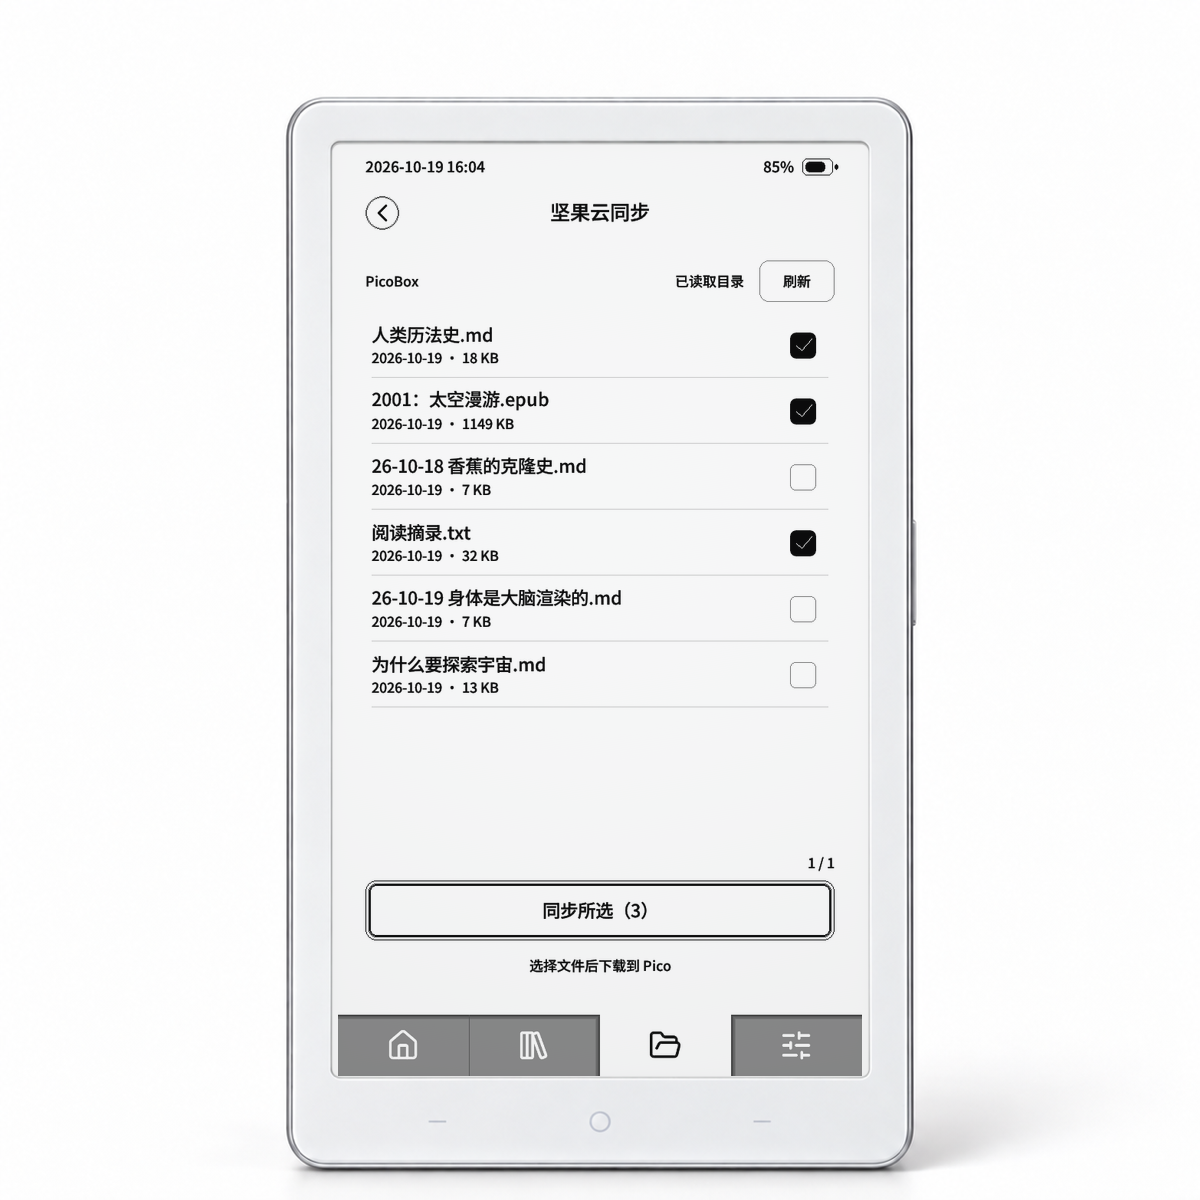
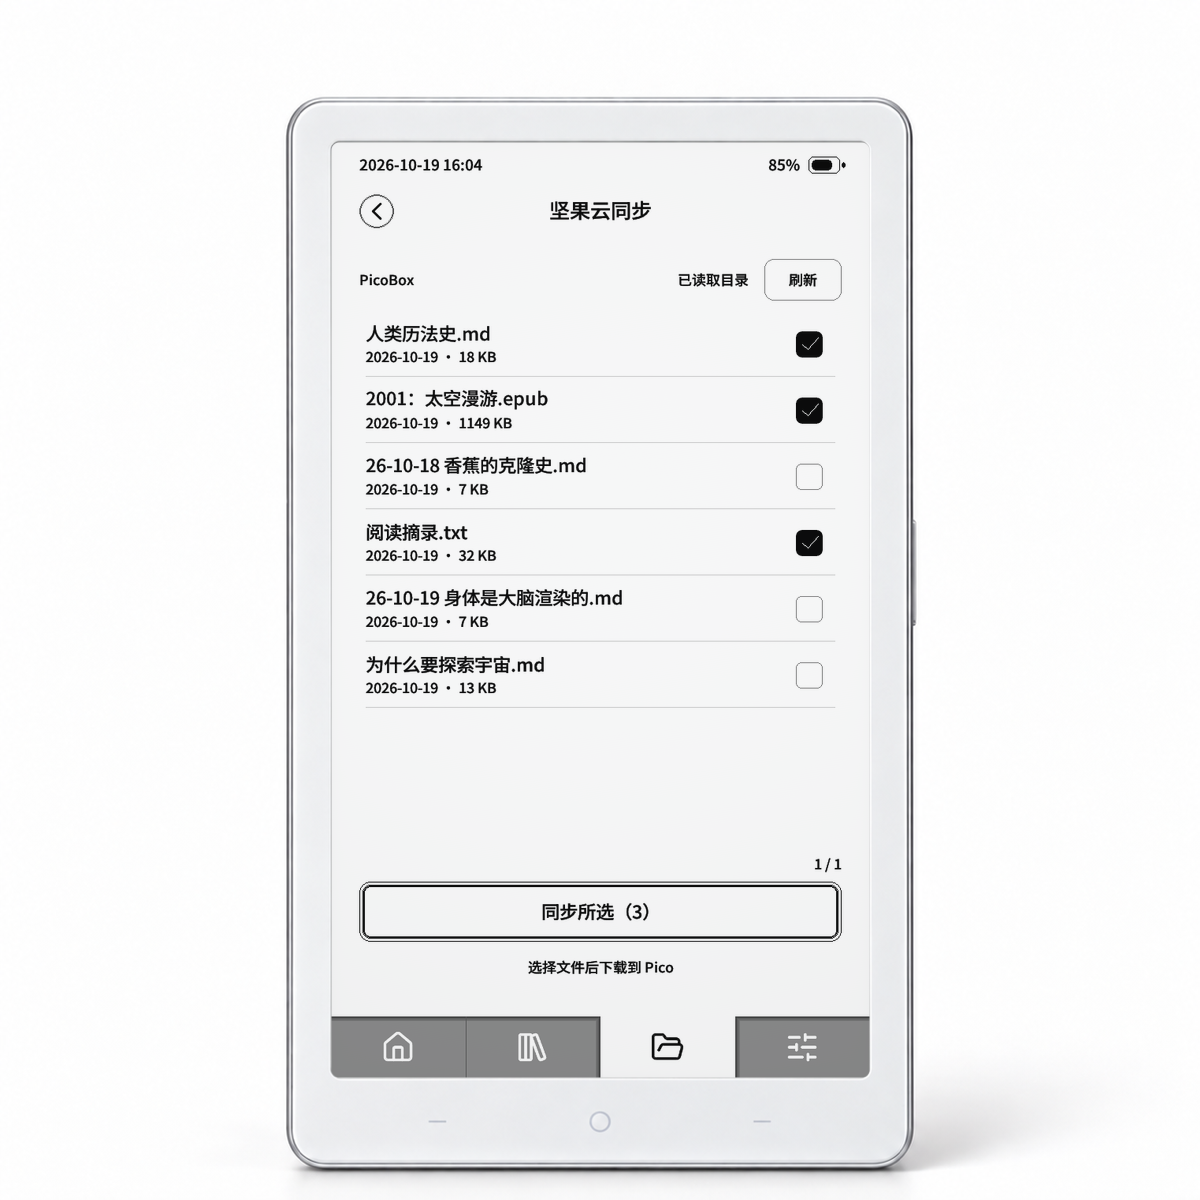
Fill device display edges and unify showcase typography

diff --git a/docs/index.html b/docs/index.html
@@ -43,23 +43,23 @@
     <div class="carousel" role="region" aria-roledescription="轮播图" aria-label="Pico 功能展示">
       <div class="carousel-stage" id="showcase-stage">
         <article class="showcase-slide" id="slide-home" role="tabpanel" aria-labelledby="tab-home">
-          <a class="showcase-image" href="./images/showcase/home.png" target="_blank" rel="noopener" aria-label="查看首页展示原图（可放大）"><img src="./images/showcase/home.webp" width="1200" height="1200" alt="Pico 设备首页展示：Banner、阅读记录和最近阅读" fetchpriority="high" decoding="async"></a>
-          <div class="showcase-copy"><span class="slide-index">01 / 05 — HOME</span><h3>首页，<br>留一点自己的样子。</h3><p>Banner 的图片、日期与文字是独立图层。选字体和字号，调整对齐与位置；长按首页原位预览，满意后再保存。</p><a class="text-link" href="#personal">认识你的首页 <span aria-hidden="true">↗</span></a></div>
+          <a class="showcase-image" href="./images/showcase/home.png?v=0.1.3-2" target="_blank" rel="noopener" aria-label="查看首页展示原图（可放大）"><img src="./images/showcase/home.webp?v=0.1.3-2" width="1200" height="1200" alt="Pico 设备首页展示：Banner、阅读记录和最近阅读" fetchpriority="high" decoding="async"></a>
+          <div class="showcase-copy"><span class="slide-index">01 / 05 — HOME</span><h3>首页，<br>留一点自己的样子。</h3><p>自定义 Banner 随心组合背景、日期与文字；阅读记录热力图记录每日阅读时长。下方的最近阅读左右分栏，左侧展示最近图书，右侧列出文档，点开即可接着读。</p><a class="text-link" href="#personal">认识你的首页 <span aria-hidden="true">↗</span></a></div>
         </article>
         <article class="showcase-slide" id="slide-shelf" role="tabpanel" aria-labelledby="tab-shelf" hidden>
-          <a class="showcase-image" href="./images/showcase/shelf.png" target="_blank" rel="noopener" aria-label="查看书架展示原图（可放大）"><img src="./images/showcase/shelf.webp" width="1200" height="1200" alt="Pico 设备展示三行三列的封面书架与阅读进度" loading="lazy" decoding="async"></a>
-          <div class="showcase-copy"><span class="slide-index">02 / 05 — LIBRARY</span><h3>读到哪里，<br>书架替你留着。</h3><p>3 × 3 封面书架，封面保持比例裁剪，进度细线放在书名上方。图书与文档分区管理，常读的内容可以置顶，打开继续读。</p><a class="text-link" href="#guide">整理内容与阅读 <span aria-hidden="true">↗</span></a></div>
+          <a class="showcase-image" href="./images/showcase/shelf.png?v=0.1.3-2" target="_blank" rel="noopener" aria-label="查看书架展示原图（可放大）"><img src="./images/showcase/shelf.webp?v=0.1.3-2" width="1200" height="1200" alt="Pico 设备展示三行三列的封面书架与阅读进度" loading="lazy" decoding="async"></a>
+          <div class="showcase-copy"><span class="slide-index">02 / 05 — LIBRARY</span><h3>读到哪里，<br>书架替你留着。</h3><p>3 × 3 封面书架，封面保留原始比例，进度细线放在书名上方。图书与文档分区管理，常读的内容可以置顶，打开继续读。</p><a class="text-link" href="#guide">整理内容与阅读 <span aria-hidden="true">↗</span></a></div>
         </article>
         <article class="showcase-slide" id="slide-markdown" role="tabpanel" aria-labelledby="tab-markdown" hidden>
-          <a class="showcase-image" href="./images/showcase/markdown.png" target="_blank" rel="noopener" aria-label="查看 Markdown 展示原图（可放大）"><img src="./images/showcase/markdown.webp" width="1200" height="1200" alt="Pico 设备展示 Markdown 标题、文字样式与表格阅读" loading="lazy" decoding="async"></a>
+          <a class="showcase-image" href="./images/showcase/markdown.png?v=0.1.3-2" target="_blank" rel="noopener" aria-label="查看 Markdown 展示原图（可放大）"><img src="./images/showcase/markdown.webp?v=0.1.3-2" width="1200" height="1200" alt="Pico 设备展示 Markdown 标题、文字样式与表格阅读" loading="lazy" decoding="async"></a>
           <div class="showcase-copy"><span class="slide-index">03 / 05 — MARKDOWN</span><h3>笔记的层次，<br>在屏上也清楚。</h3><p>标题、粗体、斜体、高亮，以及会换行、会分页的表格。让整理过的知识，拥有适合阅读的样子。</p><a class="text-link" href="#markdown">了解文档排版 <span aria-hidden="true">↗</span></a></div>
         </article>
         <article class="showcase-slide" id="slide-cloud" role="tabpanel" aria-labelledby="tab-cloud" hidden>
-          <a class="showcase-image" href="./images/showcase/cloud.png" target="_blank" rel="noopener" aria-label="查看坚果云同步展示原图（可放大）"><img src="./images/showcase/cloud.webp" width="1200" height="1200" alt="Pico 设备展示坚果云文件列表与按需下载" loading="lazy" decoding="async"></a>
+          <a class="showcase-image" href="./images/showcase/cloud.png?v=0.1.3-2" target="_blank" rel="noopener" aria-label="查看坚果云同步展示原图（可放大）"><img src="./images/showcase/cloud.webp?v=0.1.3-2" width="1200" height="1200" alt="Pico 设备展示坚果云文件列表与按需下载" loading="lazy" decoding="async"></a>
           <div class="showcase-copy"><span class="slide-index">04 / 05 — SYNC</span><div class="brand-pair" aria-label="坚果云与 Obsidian"><span><img src="./images/brands/nutstore.svg" width="28" height="28" alt="">坚果云</span><span><img src="./images/brands/obsidian.svg" width="28" height="28" alt="">Obsidian</span></div><h3>在电脑整理，<br>在 Pico 慢读。</h3><p>通过坚果云列出并下载 MD、TXT、EPUB。Obsidian 用户还可搭配独立插件推送 Markdown 文本。</p><a class="text-link" href="#sync">走通你的同步流程 <span aria-hidden="true">↗</span></a></div>
         </article>
         <article class="showcase-slide" id="slide-reader" role="tabpanel" aria-labelledby="tab-reader" hidden>
-          <a class="showcase-image" href="./images/showcase/reader.png" target="_blank" rel="noopener" aria-label="查看阅读控制面板原图（可放大）"><img src="./images/showcase/reader.webp" width="1200" height="1200" alt="Pico 设备展示阅读进度、书签、字体与版式控制面板" loading="lazy" decoding="async"></a>
+          <a class="showcase-image" href="./images/showcase/reader.png?v=0.1.3-2" target="_blank" rel="noopener" aria-label="查看阅读控制面板原图（可放大）"><img src="./images/showcase/reader.webp?v=0.1.3-2" width="1200" height="1200" alt="Pico 设备展示阅读进度、书签、字体与版式控制面板" loading="lazy" decoding="async"></a>
           <div class="showcase-copy"><span class="slide-index">05 / 05 — READER</span><h3>找到适合自己的<br>那一页。</h3><p>目录、书签、文字、版式和更多设置，收在同一个控制面板。调整阅读节奏，再回到正文。</p><a class="text-link" href="#guide">查看基础操作 <span aria-hidden="true">↗</span></a></div>
         </article>
       </div>
@@ -122,7 +122,7 @@ python3 -m esptool --chip esp32s3 --port PORT --baud 460800 --before default-res
     <div class="footer-bottom"><span class="footer-wordmark">if-ink OS<span> / v0.1.3</span></span><span>为 Pico，也为想安静读一会儿的你。</span><a href="#intro">回到顶部 ↑</a></div>
   </footer>
 </main>
-<dialog id="showcase-lightbox" aria-label="展示图片原图"><div class="lightbox-toolbar"><span id="lightbox-caption">Pico 功能展示</span><div><a id="lightbox-original" href="./images/showcase/home.png" target="_blank" rel="noopener">打开原图 ↗</a><button id="lightbox-close" type="button" aria-label="关闭原图预览">关闭 <span aria-hidden="true">×</span></button></div></div><img id="lightbox-image" src="./images/showcase/home.webp" width="1200" height="1200" alt="Pico 功能展示原图"></dialog>
+<dialog id="showcase-lightbox" aria-label="展示图片原图"><div class="lightbox-toolbar"><span id="lightbox-caption">Pico 功能展示</span><div><a id="lightbox-original" href="./images/showcase/home.png?v=0.1.3-2" target="_blank" rel="noopener">打开原图 ↗</a><button id="lightbox-close" type="button" aria-label="关闭原图预览">关闭 <span aria-hidden="true">×</span></button></div></div><img id="lightbox-image" src="./images/showcase/home.webp?v=0.1.3-2" width="1200" height="1200" alt="Pico 功能展示原图"></dialog>
 <script type="module" src="./webflash/installer.js?v=0.1.3"></script>
 </body>
 </html>
